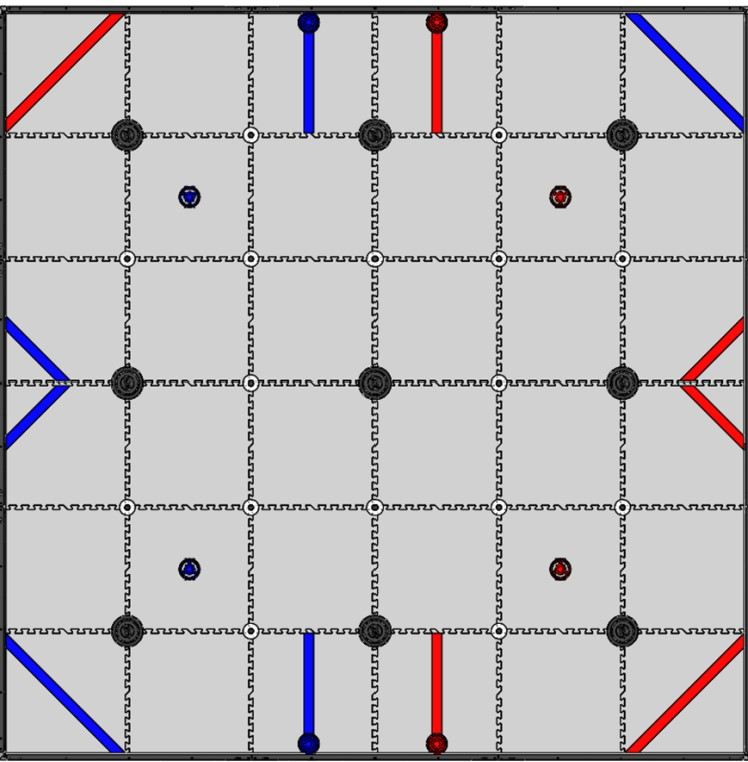
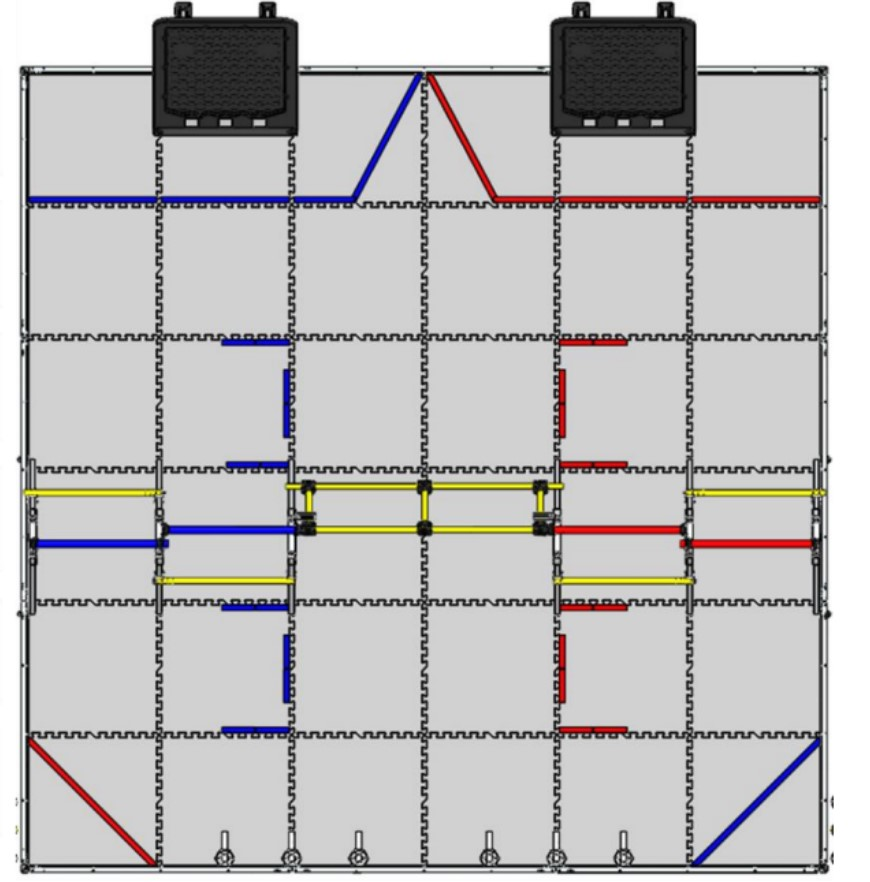
ADT
- ADT field change from Powerplay to Centerstage
- ADT saving as png

diff --git a/lib/components/AutonomousDrawingTool.dart b/lib/components/AutonomousDrawingTool.dart
@@ -76,8 +76,8 @@ class _AutonPainterState extends State<AutonPainter> {
     if (byteData != null) {
       Uint8List pngBytes = byteData.buffer.asUint8List();
       setState(() {
-        //uploadFile(pngBytes);
-        uploadFile2(image);
+        uploadFile(pngBytes);
+        //uploadFile2(image);
       });
     }
   }
@@ -117,7 +117,7 @@ class _AutonPainterState extends State<AutonPainter> {
       scope="Red_Side";
     }
     Reference ref = storage.ref().child('${_eKey} - ${team.number} - ${scope}.svg');
-    UploadTask uploadTask = ref.putData(temp, SettableMetadata(contentType: 'image/png'));
+    UploadTask uploadTask = ref.putData(temp, SettableMetadata(contentType: 'image/svg'));
     try{
       await uploadTask
           .whenComplete((){

diff --git a/lib/views/home/team/TeamView.dart b/lib/views/home/team/TeamView.dart
@@ -420,7 +420,7 @@ class _TeamViewState extends State<TeamView> {
                     Container(
                       //Put in the gallery stuff
                       child: FutureBuilder(
-                        future: FirebaseStorage.instance.ref().child('${_event.id} - ${_team.number} - ${dropdownScope}.svg').getDownloadURL(),
+                        future: FirebaseStorage.instance.ref().child('${_event.id} - ${_team.number} - ${dropdownScope}.png').getDownloadURL(),
                         builder: (BuildContext context, AsyncSnapshot<String> snapshot) {
                           if(snapshot.connectionState == ConnectionState.done && snapshot.hasData){
                             return Container(
